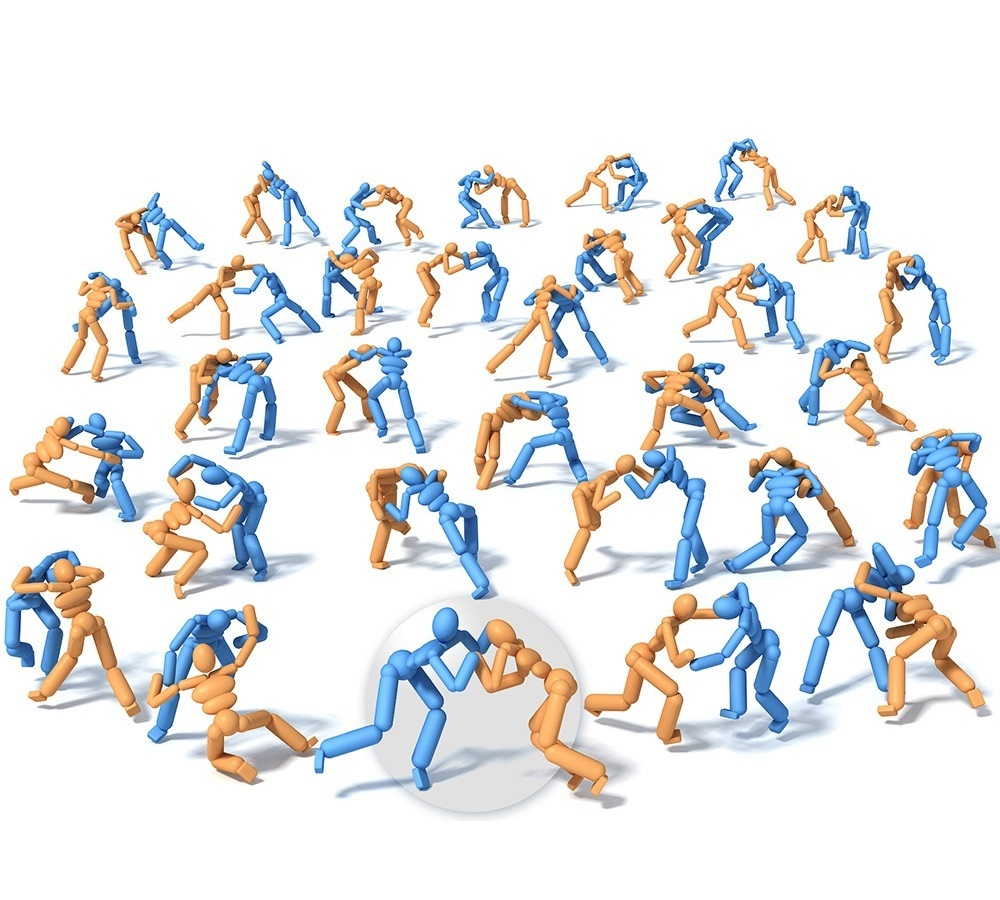
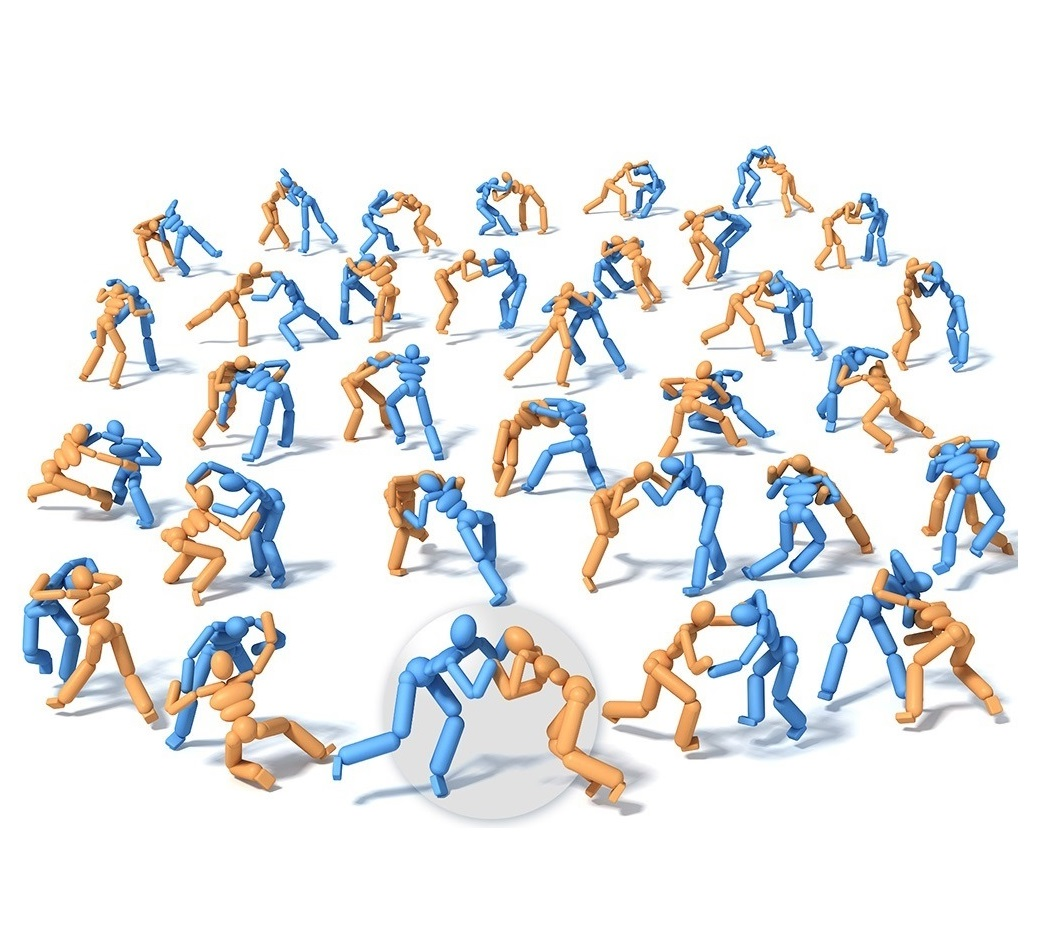
smaller font

diff --git a/index.html b/index.html
@@ -16,7 +16,7 @@
         width: 994px;
     }
 .STYLE2 {	font-family: "Courier New", Courier, monospace;
-         	font-size: 16pt;
+         	font-size: 14pt;
          	}
 .STYLE3 {color: #333333}
     .style2
@@ -123,7 +123,7 @@
   <tr>  
     <td class="style5" colspan="1" align="center"></td>
     <td class="style33" colspan="1" align="center" >
-        <img src="kangxue.jpg"  style="height: 350px; width: 350px; padding-bottom: 0px; margin-left: 0px;"  align="center"  />
+        <img src="kangxue.jpg"  style="height: 320px; width: 320px; padding-bottom: 0px; margin-left: 0px;"  align="center"  />
 	</td>
 	
     <td colspan="4" valign="top" class="STYLE1">
@@ -238,9 +238,9 @@ Hui Huang, Kangxue Yin, Minglun Gong, Dani Lischinski, Daniel Cohen-Or, Uri
       ACM Transactions on Graphics 32(6)(Special Issue of SIGGRAPH ASIA 2013 ).<br />
 [<a href="papers/tele-reg.pdf">paper</a>][<a href="http://kangxue.org/Tele-Registration/">core code + curve data</a>][<a href="http://vcc.szu.edu.cn/research/2013/Tele2D/">page</a>][<a href="https://drive.google.com/open?id=0B1yWc4B_DEqPcFROclJHOVZENjA">slides</a>]</span></td>
   </tr>
-  <tr>
-    </tr>
-  <tr>
+  <tr>     </tr>
+  
+  <tr> 
   <td colspan="5" valign="top" class="style23">
 <!--
         <p class="STYLE2">---------- before 2012 ------------<br />
@@ -249,18 +249,18 @@ Hui Huang, Kangxue Yin, Minglun Gong, Dani Lischinski, Daniel Cohen-Or, Uri
       3. Youquan Liu, Kangxue Yin, Enhua Wu , Fast GMRES-GPU Solver for Large Scale Sparse Linear System, Chinese Journal of Computer Aided Design &amp; Computer Graphics, 2011, 23(4): 553-560.</p>
 -->	  
   
-        <p class="STYLE2"><strong> <br>Selected Honors</strong></p>
-        <p class="STYLE2">SFU Graduate Fellowship,&nbsp;&nbsp;&nbsp;&nbsp;&nbsp;&nbsp;&nbsp;&nbsp;&nbsp;&nbsp;&nbsp;&nbsp;&nbsp;&nbsp;&nbsp;&nbsp;&nbsp;&nbsp;&nbsp;&nbsp;&nbsp;&nbsp;&nbsp;&nbsp;&nbsp;&nbsp;&nbsp;&nbsp;&nbsp;&nbsp;&nbsp; SFU, 2016-2017<br>
-            Faculty of Applied Sciences Graduate Fellowship,&nbsp;&nbsp;&nbsp;&nbsp;&nbsp;&nbsp;&nbsp; SFU, 2016-2017<br>
-            Computing Science Graduate Fellowship,&nbsp;&nbsp;&nbsp;&nbsp;&nbsp;&nbsp;&nbsp;&nbsp;&nbsp;&nbsp;&nbsp;&nbsp;&nbsp;&nbsp;&nbsp;&nbsp;&nbsp; SFU, 2015-2016, 2016-2017, 2017-2018<br>
-            Special Graduate Entrance Scholarship,&nbsp;&nbsp;&nbsp;&nbsp;&nbsp;&nbsp;&nbsp;&nbsp;&nbsp;&nbsp;&nbsp;&nbsp;&nbsp;&nbsp;&nbsp;&nbsp;&nbsp; SFU, 2015-2016<br>
-            2014 Annual Excellent Employee Award,&nbsp;&nbsp;&nbsp;&nbsp;&nbsp;&nbsp;&nbsp;&nbsp;&nbsp;&nbsp;&nbsp;&nbsp;&nbsp;&nbsp;&nbsp;&nbsp;&nbsp;&nbsp; SIAT@CAS, 2014<br>
-            2013 Annual Excellent Employee Award,&nbsp;&nbsp;&nbsp;&nbsp;&nbsp;&nbsp;&nbsp;&nbsp;&nbsp;&nbsp;&nbsp;&nbsp;&nbsp;&nbsp;&nbsp;&nbsp;&nbsp;&nbsp; SIAT@CAS, 2013<br>
-            2nd Prize in NVIDIA GPU Programming Contest,&nbsp;&nbsp;&nbsp;&nbsp;&nbsp;&nbsp;&nbsp;&nbsp;&nbsp;&nbsp;&nbsp; NVIDIA China, 2011<br>
-            3rd Prize in NVIDIA GPU Programming Contest,&nbsp;&nbsp;&nbsp;&nbsp;&nbsp;&nbsp;&nbsp;&nbsp;&nbsp;&nbsp;&nbsp; NVIDIA China, 2010<br>
-            Honorable Mention in NVIDIA GPU Programming Contest,&nbsp;&nbsp;&nbsp; NVIDIA China, 2009<br>
-            National Encouragement Scholarship,&nbsp;&nbsp;&nbsp;&nbsp;&nbsp;&nbsp;&nbsp;&nbsp;&nbsp;&nbsp;&nbsp;&nbsp;&nbsp;&nbsp;&nbsp;&nbsp;&nbsp;&nbsp;&nbsp;&nbsp; 2010-2011<br>
-            Top Class Scholarship awarded by Chang’an University,&nbsp;&nbsp; 2008-2009</p>
+        <p class="STYLE2"><strong> <br>&nbsp;Selected Honors</strong></p>
+        <p class="STYLE2">&nbsp;SFU Graduate Fellowship,&nbsp;&nbsp;&nbsp;&nbsp;&nbsp;&nbsp;&nbsp;&nbsp;&nbsp;&nbsp;&nbsp;&nbsp;&nbsp;&nbsp;&nbsp;&nbsp;&nbsp;&nbsp;&nbsp;&nbsp;&nbsp;&nbsp;&nbsp;&nbsp;&nbsp;&nbsp;&nbsp;&nbsp;&nbsp;&nbsp;&nbsp; SFU, 2016-2017<br>
+            &nbsp;Faculty of Applied Sciences Graduate Fellowship,&nbsp;&nbsp;&nbsp;&nbsp;&nbsp;&nbsp;&nbsp; SFU, 2016-2017<br>
+            &nbsp;Computing Science Graduate Fellowship,&nbsp;&nbsp;&nbsp;&nbsp;&nbsp;&nbsp;&nbsp;&nbsp;&nbsp;&nbsp;&nbsp;&nbsp;&nbsp;&nbsp;&nbsp;&nbsp;&nbsp; SFU, 2015-2016, 2016-2017, 2017-2018<br>
+            &nbsp;Special Graduate Entrance Scholarship,&nbsp;&nbsp;&nbsp;&nbsp;&nbsp;&nbsp;&nbsp;&nbsp;&nbsp;&nbsp;&nbsp;&nbsp;&nbsp;&nbsp;&nbsp;&nbsp;&nbsp; SFU, 2015-2016<br>
+            &nbsp;2014 Annual Excellent Employee Award,&nbsp;&nbsp;&nbsp;&nbsp;&nbsp;&nbsp;&nbsp;&nbsp;&nbsp;&nbsp;&nbsp;&nbsp;&nbsp;&nbsp;&nbsp;&nbsp;&nbsp;&nbsp; SIAT@CAS, 2014<br>
+            &nbsp;2013 Annual Excellent Employee Award,&nbsp;&nbsp;&nbsp;&nbsp;&nbsp;&nbsp;&nbsp;&nbsp;&nbsp;&nbsp;&nbsp;&nbsp;&nbsp;&nbsp;&nbsp;&nbsp;&nbsp;&nbsp; SIAT@CAS, 2013<br>
+            &nbsp;2nd Prize in NVIDIA GPU Programming Contest,&nbsp;&nbsp;&nbsp;&nbsp;&nbsp;&nbsp;&nbsp;&nbsp;&nbsp;&nbsp;&nbsp; NVIDIA China, 2011<br>
+            &nbsp;3rd Prize in NVIDIA GPU Programming Contest,&nbsp;&nbsp;&nbsp;&nbsp;&nbsp;&nbsp;&nbsp;&nbsp;&nbsp;&nbsp;&nbsp; NVIDIA China, 2010<br>
+            &nbsp;Honorable Mention in NVIDIA GPU Programming Contest,&nbsp;&nbsp;&nbsp; NVIDIA China, 2009<br>
+            &nbsp;National Encouragement Scholarship,&nbsp;&nbsp;&nbsp;&nbsp;&nbsp;&nbsp;&nbsp;&nbsp;&nbsp;&nbsp;&nbsp;&nbsp;&nbsp;&nbsp;&nbsp;&nbsp;&nbsp;&nbsp;&nbsp;&nbsp; 2010-2011<br>
+            &nbsp;Top Class Scholarship awarded by Chang’an University,&nbsp;&nbsp; 2008-2009</p>
      </td>
 	 
   </tr>
